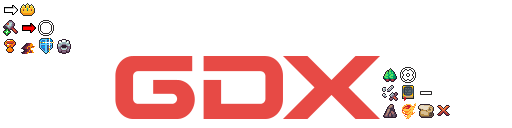
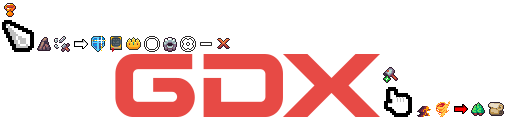
menu bien hecho, ahora hay que hacer que funcione el mando

diff --git a/core/src/main/java/com/tikisadventure/ui/SettingsUI.java b/core/src/main/java/com/tikisadventure/ui/SettingsUI.java
@@ -9,6 +9,7 @@ import com.badlogic.gdx.scenes.scene2d.ui.*;
 import com.badlogic.gdx.scenes.scene2d.utils.ChangeListener;
 import com.badlogic.gdx.scenes.scene2d.utils.ClickListener;
 import com.tikisadventure.core.SaveManager;
+import com.tikisadventure.core.Assets;
 import com.tikisadventure.input.InputConfig;
 
 import java.util.HashSet;
@@ -49,20 +50,24 @@ public class SettingsUI extends Window {
         add(contentTable).minSize(350, 250).row();
 
         // Lógica de Tabs
+        keyboardTab.addListener(new Assets.HoverCursorListener());
         keyboardTab.addListener(new ClickListener() {
             @Override
             public void clicked(InputEvent event, float x, float y) { showKeyboardSettings(); }
         });
+        controllerTab.addListener(new Assets.HoverCursorListener());
         controllerTab.addListener(new ClickListener() {
             @Override
             public void clicked(InputEvent event, float x, float y) { showControllerSettings(); }
         });
+        touchpadTab.addListener(new Assets.HoverCursorListener());
         touchpadTab.addListener(new ClickListener() {
             @Override
             public void clicked(InputEvent event, float x, float y) { showTouchpadSettings(); }
         });
 
         TextButton closeButton = new TextButton("Cerrar", skin);
+        closeButton.addListener(new Assets.HoverCursorListener());
         closeButton.addListener(new ClickListener() {
             @Override
             public void clicked(InputEvent event, float x, float y) {
@@ -71,7 +76,7 @@ public class SettingsUI extends Window {
             }
         });
         add(closeButton).padTop(10);
-        
+
         showKeyboardSettings();
         pack();
     }
@@ -153,13 +158,13 @@ public class SettingsUI extends Window {
     private void showKeyboardSettings() {
         contentTable.clear();
         contentTable.add(new Label("Controles Generales", skin)).colspan(2).padBottom(10).row();
-        
+
         InputConfig config = SaveManager.getProfileData().inputConfig;
-        
+
         // Primero: Controles que permiten teclado
         for (Map.Entry<String, Integer> entry : config.keyboardMapping.entrySet()) {
             if (MOUSE_ONLY_ACTIONS.contains(entry.getKey())) continue;
-            
+
             addRowToSettingsTable(entry.getKey(), entry.getValue(), config, false);
         }
 
@@ -170,7 +175,7 @@ public class SettingsUI extends Window {
         // Segundo: Controles de solo ratón
         for (Map.Entry<String, Integer> entry : config.keyboardMapping.entrySet()) {
             if (!MOUSE_ONLY_ACTIONS.contains(entry.getKey())) continue;
-            
+
             addRowToSettingsTable(entry.getKey(), entry.getValue(), config, true);
         }
 
@@ -188,11 +193,12 @@ public class SettingsUI extends Window {
 
     private void addRowToSettingsTable(final String action, int currentCode, final InputConfig config, final boolean isOnlyMouse) {
         contentTable.add(new Label(action, skin)).padRight(10).left();
-        
-        boolean isMovement = action.equals("up") || action.equals("down") || 
+
+        boolean isMovement = action.equals("up") || action.equals("down") ||
                              action.equals("left") || action.equals("right");
 
         TextButton btn = new TextButton(getInputName(currentCode, isOnlyMouse || (!isMovement && currentCode >= 0 && currentCode <= 4)), skin);
+        btn.addListener(new Assets.HoverCursorListener());
 
         btn.addListener(new ClickListener() {
             @Override
@@ -200,7 +206,7 @@ public class SettingsUI extends Window {
                 startWaitingForKey(action, btn, !isMovement, isOnlyMouse);
             }
         });
-        
+
         contentTable.add(btn).fillX();
         contentTable.row();
     }
@@ -242,7 +248,7 @@ public class SettingsUI extends Window {
         }
 
         InputConfig config = SaveManager.getProfileData().inputConfig;
-        
+
         // Intercambio automático (Swap)
         for (Map.Entry<String, Integer> entry : config.keyboardMapping.entrySet()) {
             if (!entry.getKey().equals(action) && entry.getValue() == code) {
@@ -253,7 +259,7 @@ public class SettingsUI extends Window {
 
         config.keyboardMapping.put(action, code);
         SaveManager.saveProfileData();
-        
+
         waitingForKey = false;
         Gdx.input.setInputProcessor(getStage());
         showKeyboardSettings();

diff --git a/core/src/main/java/com/tikisadventure/core/Assets.java b/core/src/main/java/com/tikisadventure/core/Assets.java
@@ -24,11 +24,26 @@ public class Assets {
     public static Texture trajectoryDotTexture() { return trajectoryDotTexture; }
     public static ShaderProgram outlineShader;
     private static Cursor customCursor;
+    private static Cursor handCursor;
 
     public static void loadCursor() {
         Pixmap pixmap = new Pixmap(Gdx.files.internal("sprites/shared/UI_assets/UI_Cursor.png"));
         customCursor = Gdx.graphics.newCursor(pixmap, 0, 0);
         pixmap.dispose();
+        Gdx.graphics.setCursor(customCursor);
+    }
+
+    public static void loadHandCursor() {
+        Pixmap pixmap = new Pixmap(Gdx.files.internal("sprites/shared/UI_assets/UI_Hand.png"));
+        handCursor = Gdx.graphics.newCursor(pixmap, 0, 0);
+        pixmap.dispose();
+    }
+
+    public static void setHandCursor() {
+        Gdx.graphics.setCursor(handCursor);
+    }
+
+    public static void setDefaultCursor() {
         Gdx.graphics.setCursor(customCursor);
     }
 
@@ -107,6 +122,22 @@ public class Assets {
         if (customCursor != null) {
             customCursor.dispose();
             customCursor = null;
+        }
+        if (handCursor != null) {
+            handCursor.dispose();
+            handCursor = null;
+        }
+    }
+
+    public static class HoverCursorListener extends com.badlogic.gdx.scenes.scene2d.InputListener {
+        @Override
+        public void enter(com.badlogic.gdx.scenes.scene2d.InputEvent event, float x, float y, int pointer, com.badlogic.gdx.scenes.scene2d.Actor fromActor) {
+            Assets.setHandCursor();
+        }
+
+        @Override
+        public void exit(com.badlogic.gdx.scenes.scene2d.InputEvent event, float x, float y, int pointer, com.badlogic.gdx.scenes.scene2d.Actor toActor) {
+            Assets.setDefaultCursor();
         }
     }
 }

diff --git a/core/src/main/java/com/tikisadventure/ui/LeaderboardUI.java b/core/src/main/java/com/tikisadventure/ui/LeaderboardUI.java
@@ -55,6 +55,7 @@ public class LeaderboardUI extends Window {
         add(scrollPane).expand().fill().row();
 
         TextButton btnCerrar = new TextButton("Cerrar", skin);
+        btnCerrar.addListener(new Assets.HoverCursorListener());
         btnCerrar.addListener(new ClickListener() {
             @Override
             public void clicked(InputEvent event, float x, float y) {
@@ -102,16 +103,19 @@ public class LeaderboardUI extends Window {
         tabsTable.add(btnDesierto).size(140, 40).padRight(10);
         tabsTable.add(btnCueva).size(140, 40);
 
+        btnBosque.addListener(new Assets.HoverCursorListener());
         btnBosque.addListener(new ClickListener() {
             @Override public void clicked(InputEvent event, float x, float y) {
                 cargarDatos("bosque", btnBosque, "TOP 50: BOSQUE", Color.GREEN);
             }
         });
+        btnDesierto.addListener(new Assets.HoverCursorListener());
         btnDesierto.addListener(new ClickListener() {
             @Override public void clicked(InputEvent event, float x, float y) {
                 cargarDatos("desierto", btnDesierto, "TOP 50: DESIERTO", Color.YELLOW);
             }
         });
+        btnCueva.addListener(new Assets.HoverCursorListener());
         btnCueva.addListener(new ClickListener() {
             @Override public void clicked(InputEvent event, float x, float y) {
                 cargarDatos("cueva", btnCueva, "TOP 50: CUEVA", Color.PURPLE);

diff --git a/core/src/main/java/com/tikisadventure/ui/HistoryUI.java b/core/src/main/java/com/tikisadventure/ui/HistoryUI.java
@@ -62,6 +62,7 @@ public class HistoryUI extends Window {
         add(scrollPane).expand().fill().row(); // El scrollpane empuja el resto a su sitio
 
         TextButton btnCerrar = new TextButton("Cerrar", skin);
+        btnCerrar.addListener(new Assets.HoverCursorListener());
         btnCerrar.addListener(new ClickListener() {
             @Override
             public void clicked(InputEvent event, float x, float y) {
@@ -146,12 +147,15 @@ public class HistoryUI extends Window {
         tabsTable.add(btnMejores).size(140, 40).padRight(10);
         tabsTable.add(btnHazanas).size(140, 40);
 
+        btnRecientes.addListener(new Assets.HoverCursorListener());
         btnRecientes.addListener(new ClickListener() {
             @Override public void clicked(InputEvent event, float x, float y) { mostrarRecientes(); }
         });
+        btnMejores.addListener(new Assets.HoverCursorListener());
         btnMejores.addListener(new ClickListener() {
             @Override public void clicked(InputEvent event, float x, float y) { mostrarMejores(); }
         });
+        btnHazanas.addListener(new Assets.HoverCursorListener());
         btnHazanas.addListener(new ClickListener() {
             @Override public void clicked(InputEvent event, float x, float y) { mostrarHazanas(); }
         });

diff --git a/core/src/main/java/com/tikisadventure/screens/MenuMapScreen.java b/core/src/main/java/com/tikisadventure/screens/MenuMapScreen.java
@@ -50,9 +50,8 @@ import com.badlogic.gdx.utils.viewport.StretchViewport;
 import com.tikisadventure.entities.player.CharacterFactory;
 
 import com.tikisadventure.core.GameSession;
-
 import com.tikisadventure.core.SaveManager;
-
+import com.tikisadventure.core.Assets;
 import com.badlogic.gdx.utils.JsonReader;
 
 import com.badlogic.gdx.utils.JsonValue;
@@ -357,6 +356,7 @@ public class MenuMapScreen implements Screen {
             Animation<TextureRegion> idleAnim = CharacterFactory.getCharacterIdleAnimation(id);
 
             final Button btn = new Button(uiSkin);
+            btn.addListener(new Assets.HoverCursorListener());
 
             if (!isUnlocked) {
 
@@ -498,6 +498,7 @@ public class MenuMapScreen implements Screen {
 
 // --- LISTENERS ---
 
+        btnFlechaAbajo.addListener(new Assets.HoverCursorListener());
         btnFlechaAbajo.addListener(new ClickListener() {
 
             @Override
@@ -550,6 +551,7 @@ public class MenuMapScreen implements Screen {
     private void configurarListenerBoton(final Button btn, final Runnable accion) {
 
         btn.clearListeners();
+        btn.addListener(new Assets.HoverCursorListener());
 
         btn.addListener(new ClickListener() {
 

diff --git a/core/src/main/java/com/tikisadventure/screens/ShopScreen.java b/core/src/main/java/com/tikisadventure/screens/ShopScreen.java
@@ -54,7 +54,9 @@ public class ShopScreen extends Window {
 
         // --- PESTAÑAS (TABS) ---
         TextButton btnTabArmas = new TextButton("ARMAS", skin);
+        btnTabArmas.addListener(new Assets.HoverCursorListener());
         TextButton btnTabGadgets = new TextButton("GADGETS", skin);
+        btnTabGadgets.addListener(new Assets.HoverCursorListener());
 
         Table tabTable = new Table();
         tabTable.add(btnTabArmas).width(120).height(35).padRight(10);
@@ -92,6 +94,7 @@ public class ShopScreen extends Window {
 
         // --- BOTÓN VOLVER ---
         TextButton btnVolver = new TextButton("Volver", skin);
+        btnVolver.addListener(new Assets.HoverCursorListener());
         btnVolver.addListener(new ClickListener() {
             @Override
             public void clicked(InputEvent event, float x, float y) {
@@ -215,6 +218,7 @@ public class ShopScreen extends Window {
 
         slot.button = new Button(skin);
         slot.button.setSize(100, 120);
+        slot.button.addListener(new Assets.HoverCursorListener());
 
         slotTable.add(slot.spriteImage).size(64, 64).padTop(10).row();
         slotTable.add(slot.priceLabel).padTop(5);

diff --git a/core/src/main/java/com/tikisadventure/ui/GadgetUI.java b/core/src/main/java/com/tikisadventure/ui/GadgetUI.java
@@ -32,6 +32,7 @@ public class GadgetUI {
 
         updateEquippedGadgetIcon();
 
+        btnEquippedGadget.addListener(new Assets.HoverCursorListener());
         btnEquippedGadget.addListener(new ClickListener() {
             @Override
             public void clicked(InputEvent event, float x, float y) {
@@ -79,6 +80,7 @@ public class GadgetUI {
             btn.add(img).size(40, 40);
             if (id.equals(equipped)) btn.setChecked(true);
 
+            btn.addListener(new Assets.HoverCursorListener());
             btn.addListener(new ClickListener() {
                 @Override
                 public void clicked(InputEvent event, float x, float y) {
@@ -94,6 +96,7 @@ public class GadgetUI {
         }
 
         TextButton btnCerrar = new TextButton("Cerrar", uiSkin);
+        btnCerrar.addListener(new Assets.HoverCursorListener());
         btnCerrar.addListener(new ClickListener() {
             @Override
             public void clicked(InputEvent event, float x, float y) { modal.remove(); }

diff --git a/core/src/main/java/com/tikisadventure/ui/LevelUpUI.java b/core/src/main/java/com/tikisadventure/ui/LevelUpUI.java
@@ -327,6 +327,7 @@ public class LevelUpUI extends Window {
 
         cardGroup.add(layers).expand().fill();
 
+        cardGroup.addListener(new Assets.HoverCursorListener());
         cardGroup.addListener(new com.badlogic.gdx.scenes.scene2d.utils.ClickListener() {
             @Override
             public void enter(com.badlogic.gdx.scenes.scene2d.InputEvent event, float x, float y, int pointer, com.badlogic.gdx.scenes.scene2d.Actor fromActor) {

diff --git a/core/src/main/java/com/tikisadventure/screens/MenuScreen.java b/core/src/main/java/com/tikisadventure/screens/MenuScreen.java
@@ -625,6 +625,8 @@ public class MenuScreen implements Screen {
         btn.setTransform(true);
         btn.setOrigin(btn.getWidth() / 2f, btn.getHeight() / 2f);
 
+        btn.addListener(new Assets.HoverCursorListener());
+
         btn.addListener(new ClickListener() {
             @Override
             public boolean touchDown(InputEvent event, float x, float y, int pointer, int button) {

diff --git a/core/src/main/java/com/tikisadventure/core/TikiGame.java b/core/src/main/java/com/tikisadventure/core/TikiGame.java
@@ -11,6 +11,7 @@ public class TikiGame extends Game {
         Assets.load();
         Assets.finishLoading();
         Assets.loadCursor();
+        Assets.loadHandCursor();
         setScreen(new MenuScreen(this));
     }
 
